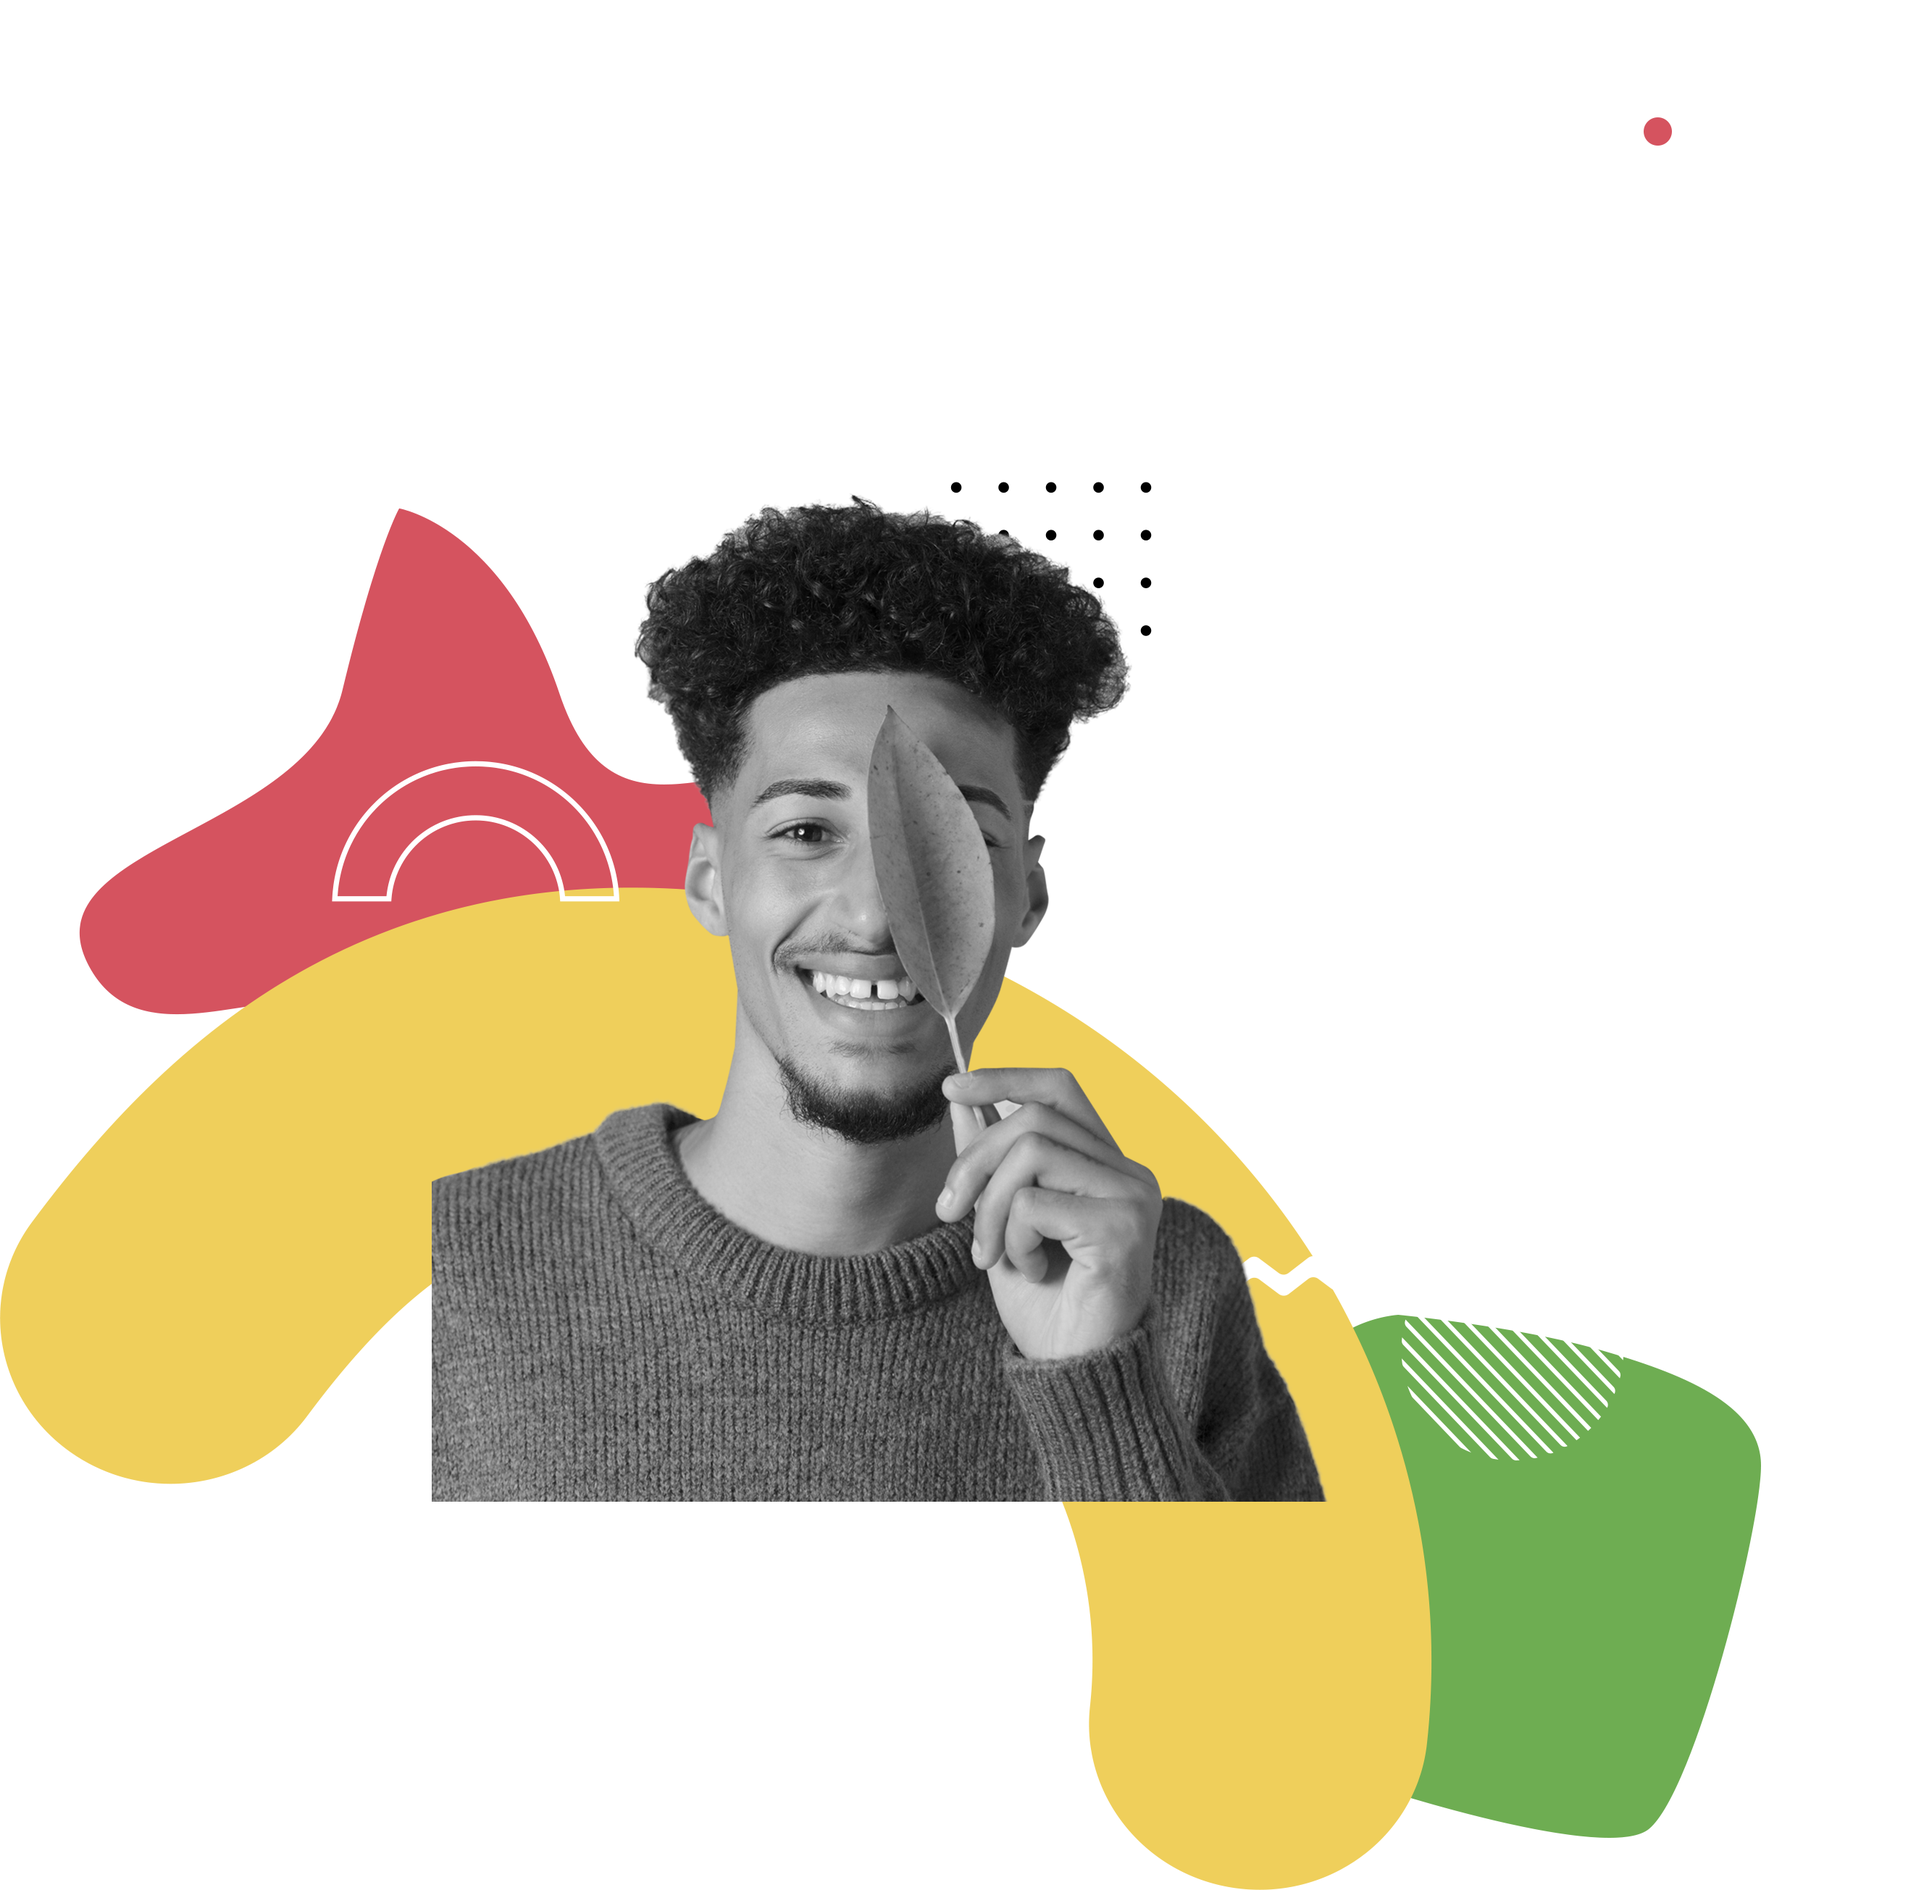
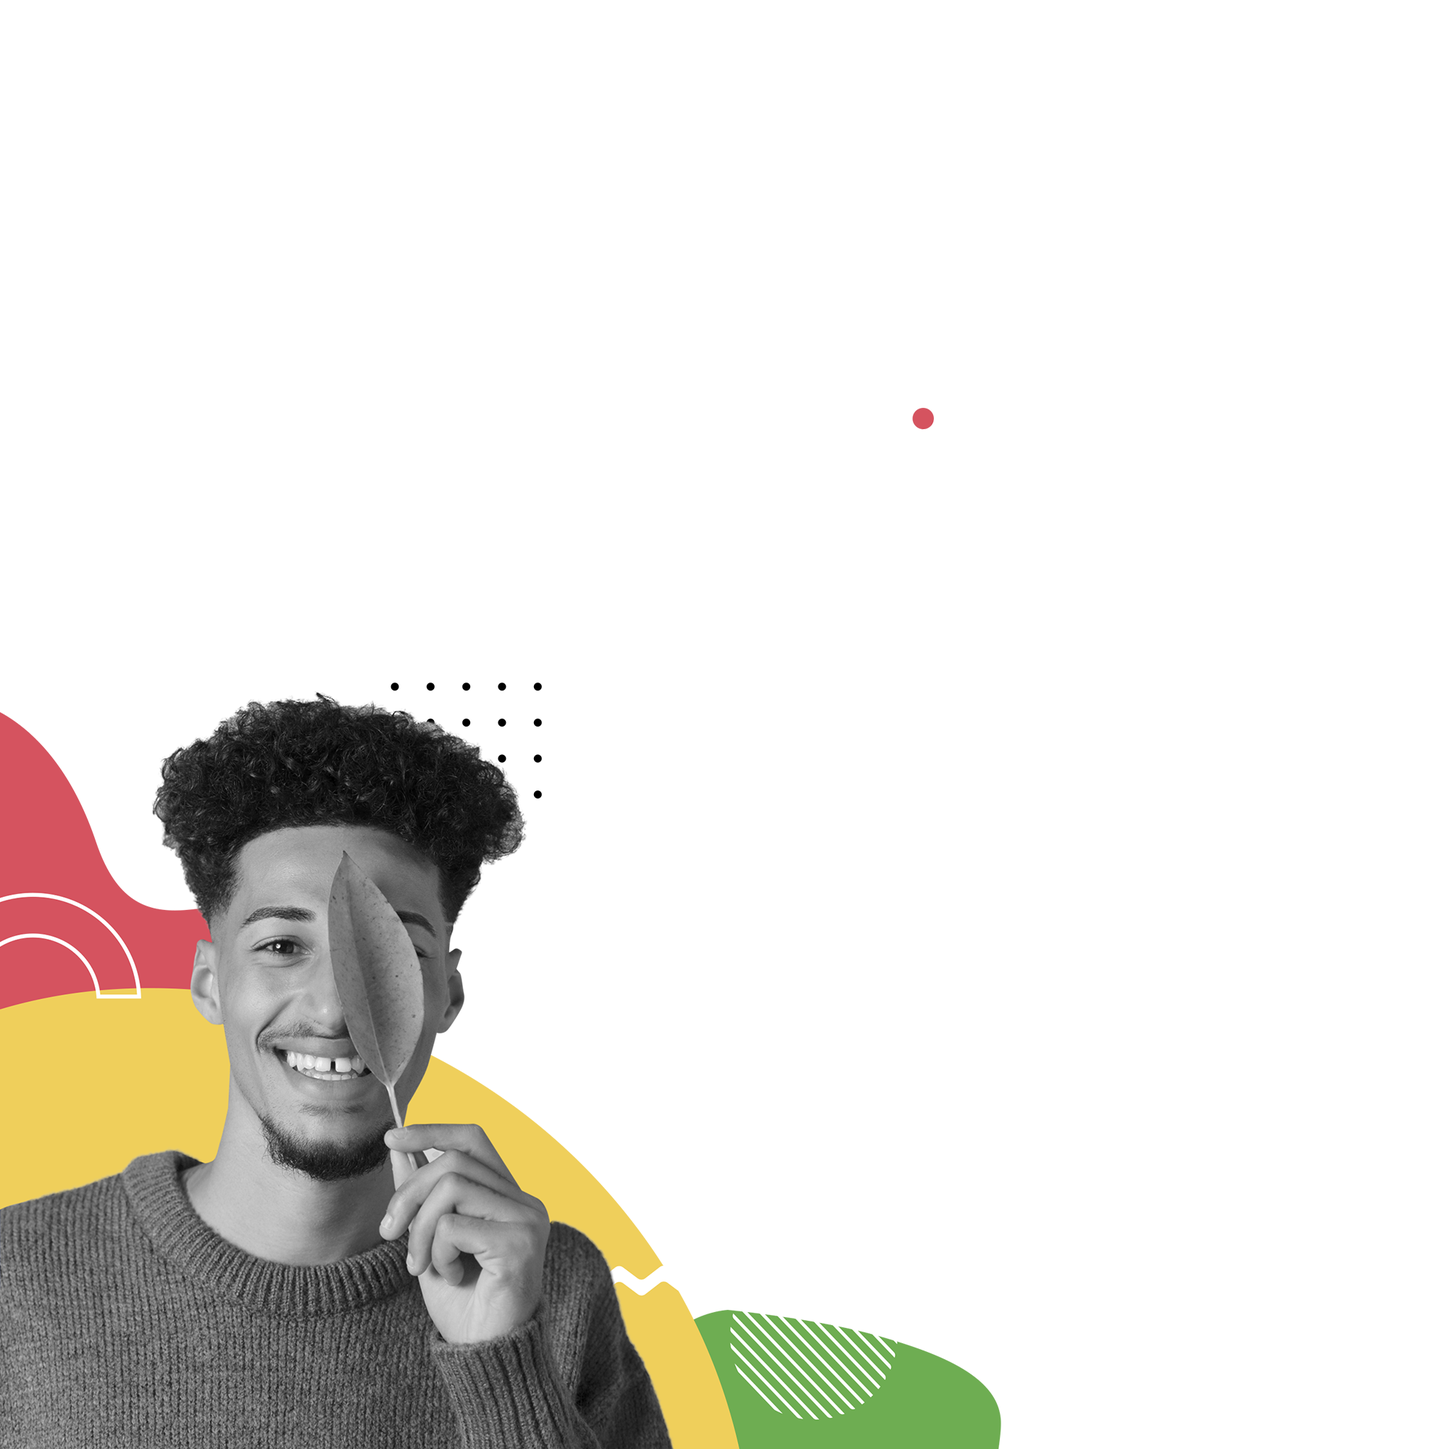
updated responsive background images.

diff --git a/css/style.css b/css/style.css
@@ -36,12 +36,12 @@ nav {
 .hero {
     align-items: flex-start;
     background-image: url('/img/hero-background.png');
-    background-position: top 0 left -50px;
+    background-position: center top;
     background-repeat: no-repeat;
     background-size: cover;
     display: flex;
     flex-direction: column;
-    height: 60vh;
+    height: 100vh;
     margin-block: 70px 50px;
     padding: 20px;
 }
@@ -64,12 +64,12 @@ nav {
 .about {
     align-items: flex-start;
     background-image: url('/img/about-background.png');
-    background-position: top 0 right 70px;
+    background-position: center;
     background-repeat: no-repeat;
     background-size: cover;
     display: flex;
     flex-direction: column;
-    height: 60vh;
+    height: 100vh;
     padding-top: 70px;
     padding: 20px;
 }
@@ -93,13 +93,13 @@ nav {
 .education {
     align-items: flex-start;
     background-image: url('/img/education-background.png');
-    background-position: bottom -100px right 0;
+    background-position: center left 0;
     background-repeat: no-repeat;
     background-size: cover;
     display: flex;
     flex-direction: column;
     font-family: var(--fnt-mt);
-    height: 60vh;
+    height: 100vh;
     padding: 20px;
 }
 
@@ -138,13 +138,13 @@ nav {
 .skills {
     align-items: flex-start;
     background-image: url('/img/about-background.png');
-    background-position: bottom -100px left 0;
+    background-position: center;
     background-repeat: no-repeat;
     background-size: cover;
     display: flex;
     flex-direction: column;
     font-family: var(--fnt-mt);
-    height: 60vh;
+    height: 100vh;
     justify-content: center;
     padding: 20px;
 }
@@ -198,11 +198,11 @@ nav {
 
 .experience {
     background-image: url('/img/experience-background.png');
-    background-position: center;
+    background-position: center right;
     background-repeat: no-repeat;
     background-size: cover;
     font-family: var(--fnt-mt);
-    height: 100%;
+    height: 100vh;
     margin-top: 80px;
     padding: 20px;
 }
@@ -236,7 +236,7 @@ nav {
     background-repeat: no-repeat;
     background-size: cover;
     font-family: var(--fnt-mt);
-    height: 100%;
+    height: 100vh;
     margin-top: 50px;
     padding: 20px;
 }
@@ -270,7 +270,7 @@ nav {
     background-repeat: no-repeat;
     background-size: cover;
     font-family: var(--fnt-mt);
-    height: 100%;
+    height: 100vh;
     margin-top: 50px;
     padding: 20px;
 }
@@ -303,7 +303,7 @@ nav {
     background-position: center;
     background-repeat: no-repeat;
     background-size: cover;
-    height: 100%;
+    height: 30vh;
     margin-top: 50px;
     padding: 20px;
 }
@@ -335,13 +335,13 @@ nav {
 .footer-main {
     align-items: flex-start;
     background-image: url('/img/footer-background.png');
-    background-position: bottom -50px right -50px;
+    background-position: center;
     background-repeat: no-repeat;
     background-size: cover;
     display: flex;
     flex-direction: column;
     font-family: var(--fnt-mt);
-    height: 40vh;
+    height: 100vh;
     justify-content: center;
     padding-top: 50px;
     padding: 20px;
@@ -391,12 +391,8 @@ nav {
      flex: 1;
     }
 
-    .about {
-        background-position: top 0 left 100px;
-    }
     .education {
         flex-direction: row;
-        background-position: bottom -125px left -150px;
         padding-top: 100px;
     }
     .education__title {
@@ -408,9 +404,6 @@ nav {
     }
     .education__box-con {
         flex: 1;
-    }
-    .skills {
-        background-position: bottom -100px left 120px;
     }
     .skills__con {
         max-width: 50%;
@@ -432,9 +425,6 @@ nav {
     }
     .footer__title {
         font-size: var(--fnt-mdl);
-    }
-    .footer-main {
-        background-position: bottom -100px right -80px;
     }
     .footer__con {
         margin-bottom: 80px;
@@ -466,7 +456,6 @@ nav {
     }
     .about {
         height: 100vh;
-        background-position: top 0 right -170px;
     }
     .about__con {
         display: flex;
@@ -485,7 +474,6 @@ nav {
         height: 100vh;
     }
     .education {
-        background-position: bottom -210px left -230px;
         height: 100vh;
     }
     .education__box {
@@ -502,7 +490,6 @@ nav {
         max-width: 50%;
     }
     .skills {
-        background-position: bottom -160px left 190px;
         height: 100vh;
         justify-content: flex-start;
     }
@@ -650,7 +637,6 @@ nav {
         margin-bottom: 20px;
     }
     .footer-main {
-        background-position: bottom -170px right -150px;
         height: 100vh;
     }
     .footer__title {
